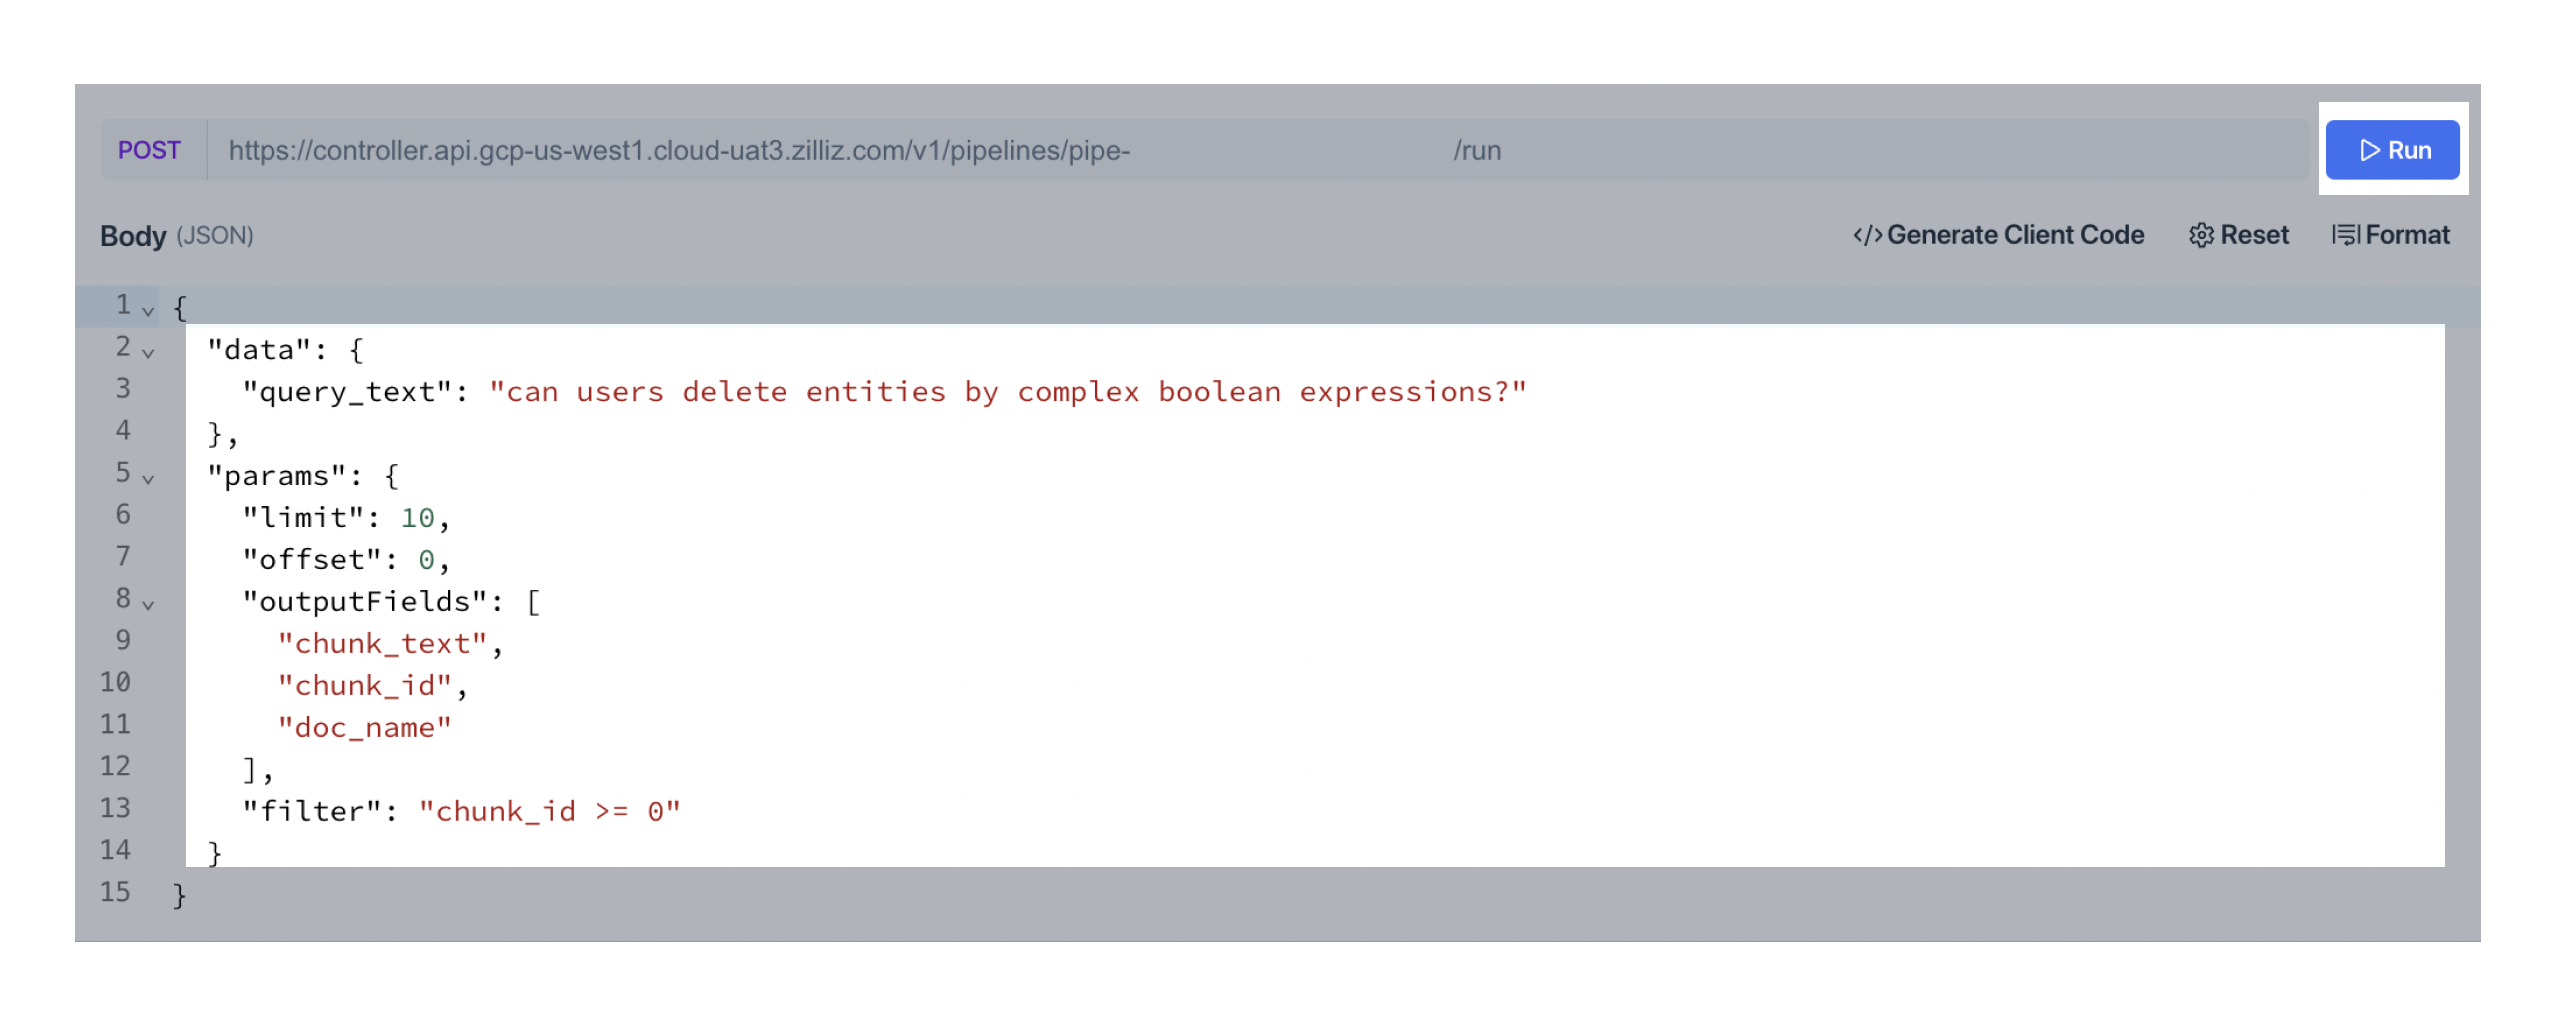
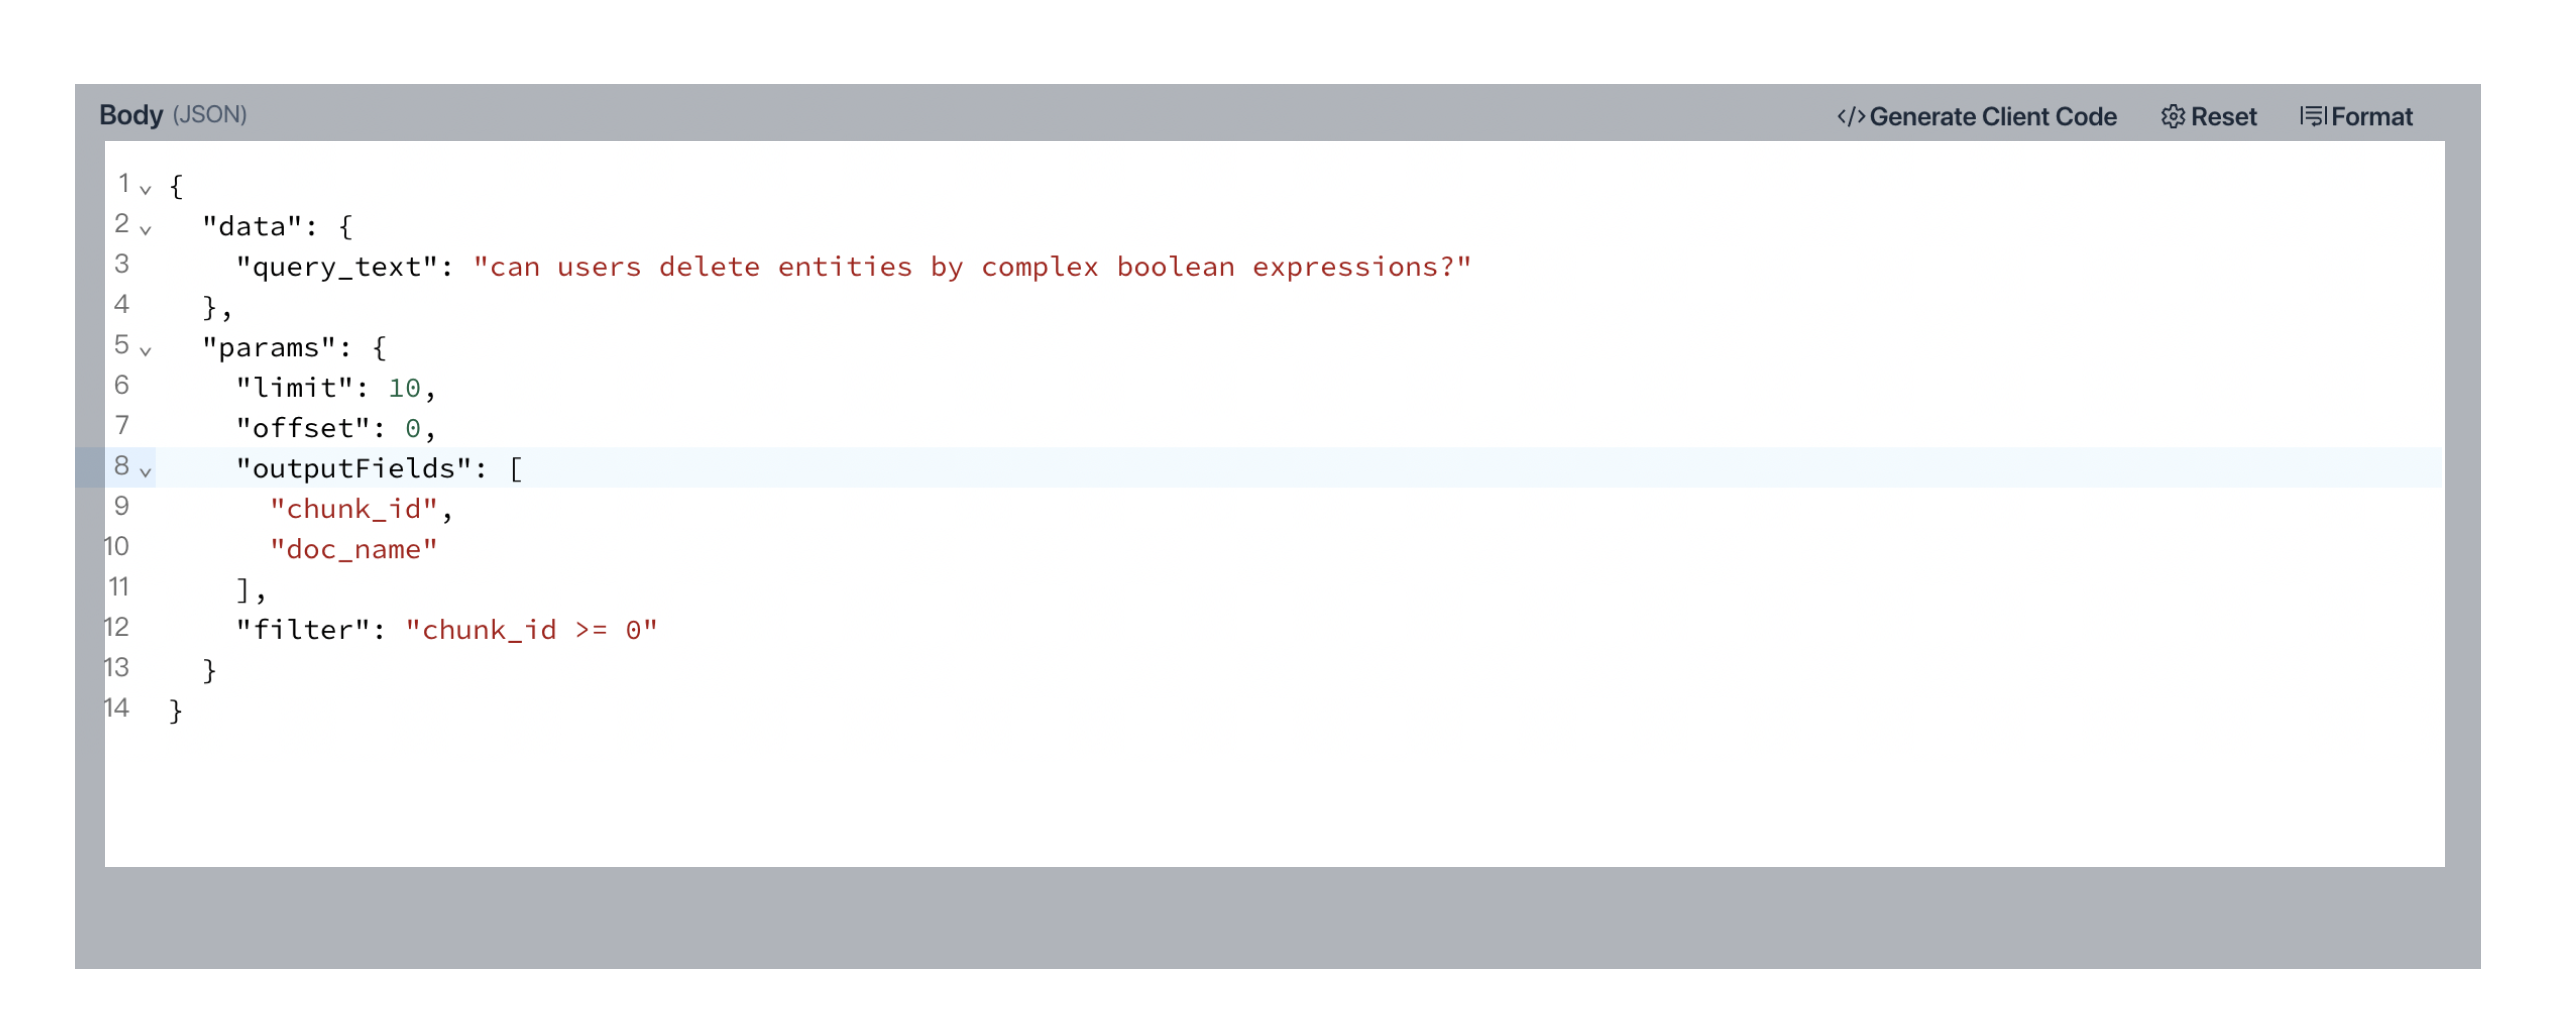
update docs

Changed region(s): [[0.0309, 0.0936, 0.989, 0.8733], [0.0309, 0.9045, 0.989, 0.9669]]

diff --git a/docs/tutorials/pipelines/run-pipelines/run-search-pipelines.md b/docs/tutorials/pipelines/run-pipelines/run-search-pipelines.md
@@ -41,7 +41,7 @@ curl --request POST \
       "params":{
           "limit": 1,
           "offset": 0,
-          "outputFields": [ "chunk_text", "id", "doc_name" ],
+          "outputFields": [ "chunk_id", "doc_name" ],
           "filter": "id >= 0", 
       }
     }'
@@ -61,9 +61,10 @@ The parameters in the above code are described as follows:
     - `limit`: The maximum number of entities to return. The value should be an integer ranging from **1** to **100**. The sum of this value of that of `offset` should be less than **1024**.
 
     - `offset`: The number of entities to skip in the search results.
-The sum of this value and that of `limit` should not be greater than **1024**.The maximum value is **1024**.
 
-    - `outputFields`: An array of fields to return along with the search results. `id`, `distance`, and `chunk_text`are default output fields.
+        The sum of this value and that of `limit` should not be greater than **1024**.The maximum value is **1024**.
+
+    - `outputFields`: An array of fields to return along with the search results. Note that `id`（entity ID）, `distance`, and `chunk_text` will be returned in the search result by default. If you need other output fields in the returned result, you can configure this parameter.
 
     - `filter`: The [filter](./search-query-and-get#search-with-filters) in boolean expression used to find matches for the search
 
